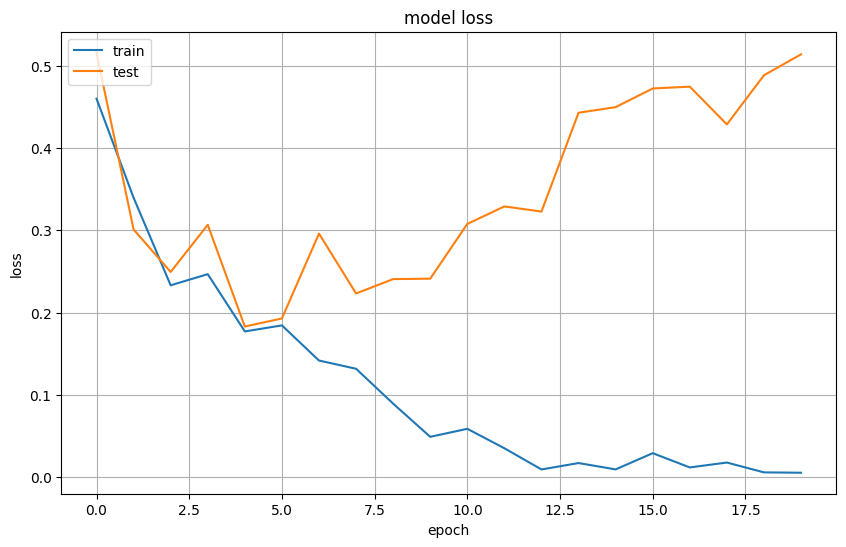
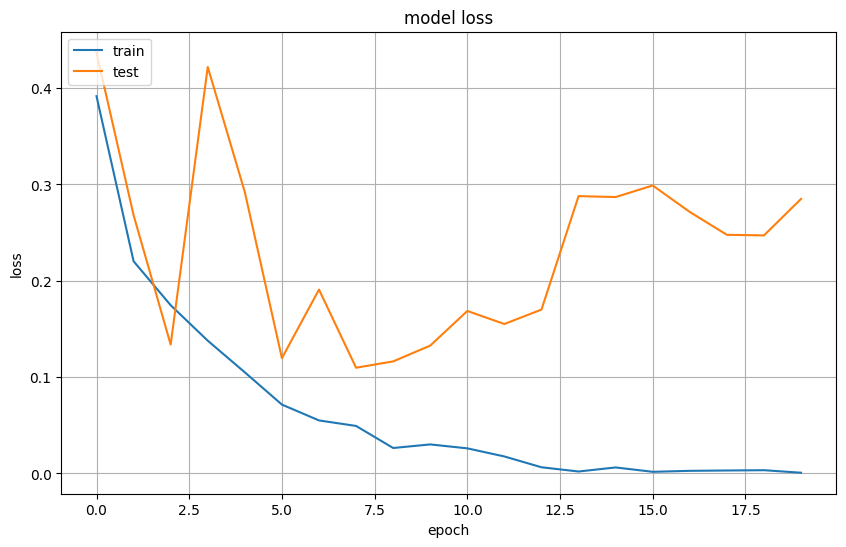
v3

diff --git a/sepConvLstmNet.py b/sepConvLstmNet.py
@@ -27,17 +27,19 @@ def getModel(size=224, seq_len=20 , cnn_weight=None, lstm_conf=None ):
 
     lstm = SepConvLSTM2D(filters=256, kernel_size=(3, 3), padding='same', return_sequences=False)(cnn)
     lstm = MaxPooling2D(pool_size=(2, 2))(lstm)   
-    flat = Flatten()(lstm)
-    x = BatchNormalization()(flat)
+    #lstm = Flatten()(lstm)
+    x = BatchNormalization()(lstm)
     
-    x = Dense(768,activation = 'relu')(x)
-    x = Dropout(0.3)(x)
+    x = GlobalAveragePooling2D()(x)
+
+    #x = Dense(768,activation = 'relu')(x)
+    #x = Dropout(0.3)(x)
     
-    x = Dense(256,activation='relu')(x)
-    x = Dropout(0.3)(x)
+    x = Dense(128,activation='relu')(x)
+    x = Dropout(0.2)(x)
 
     x = Dense(10,activation='relu')(x)
-    x = Dropout(0.2)(x)
+    x = Dropout(0.1)(x)
 
     activation = 'sigmoid'
     

diff --git a/violenceDetection5Fold.py b/violenceDetection5Fold.py
@@ -9,12 +9,12 @@ set_seed(42)
 from tensorflow.keras.callbacks import EarlyStopping, ReduceLROnPlateau, Callback, ModelCheckpoint
 from tensorflow.keras.optimizers import RMSprop, Adam
 from tensorflow.keras.models import load_model
+from tensorflow import set_random_seed  
 from datasetProcess import *
 from dataGenerator import *
 from utils import *
 import sepConvLstmNet
 import shutil
-import pickle
 
 dataset = 'hockey'
 dataset_videos = {'hockey':'raw_videos/hockey','movies':'raw_videos/movies'}

diff --git a/violenceDetection.py b/violenceDetection.py
@@ -27,7 +27,7 @@ batch_size = 4   #4
 vid_len = 20   #10
 frame_size = 224
 
-preprocess_data = False #######
+preprocess_data = True  #######
 split_number = 1   #[1,2,3,4,5,6]
 create_new_model = True  #######
 bestModelPath = '/gdrive/My Drive/THESIS/Data/' + str(dataset) + '_bestModel.h5'
